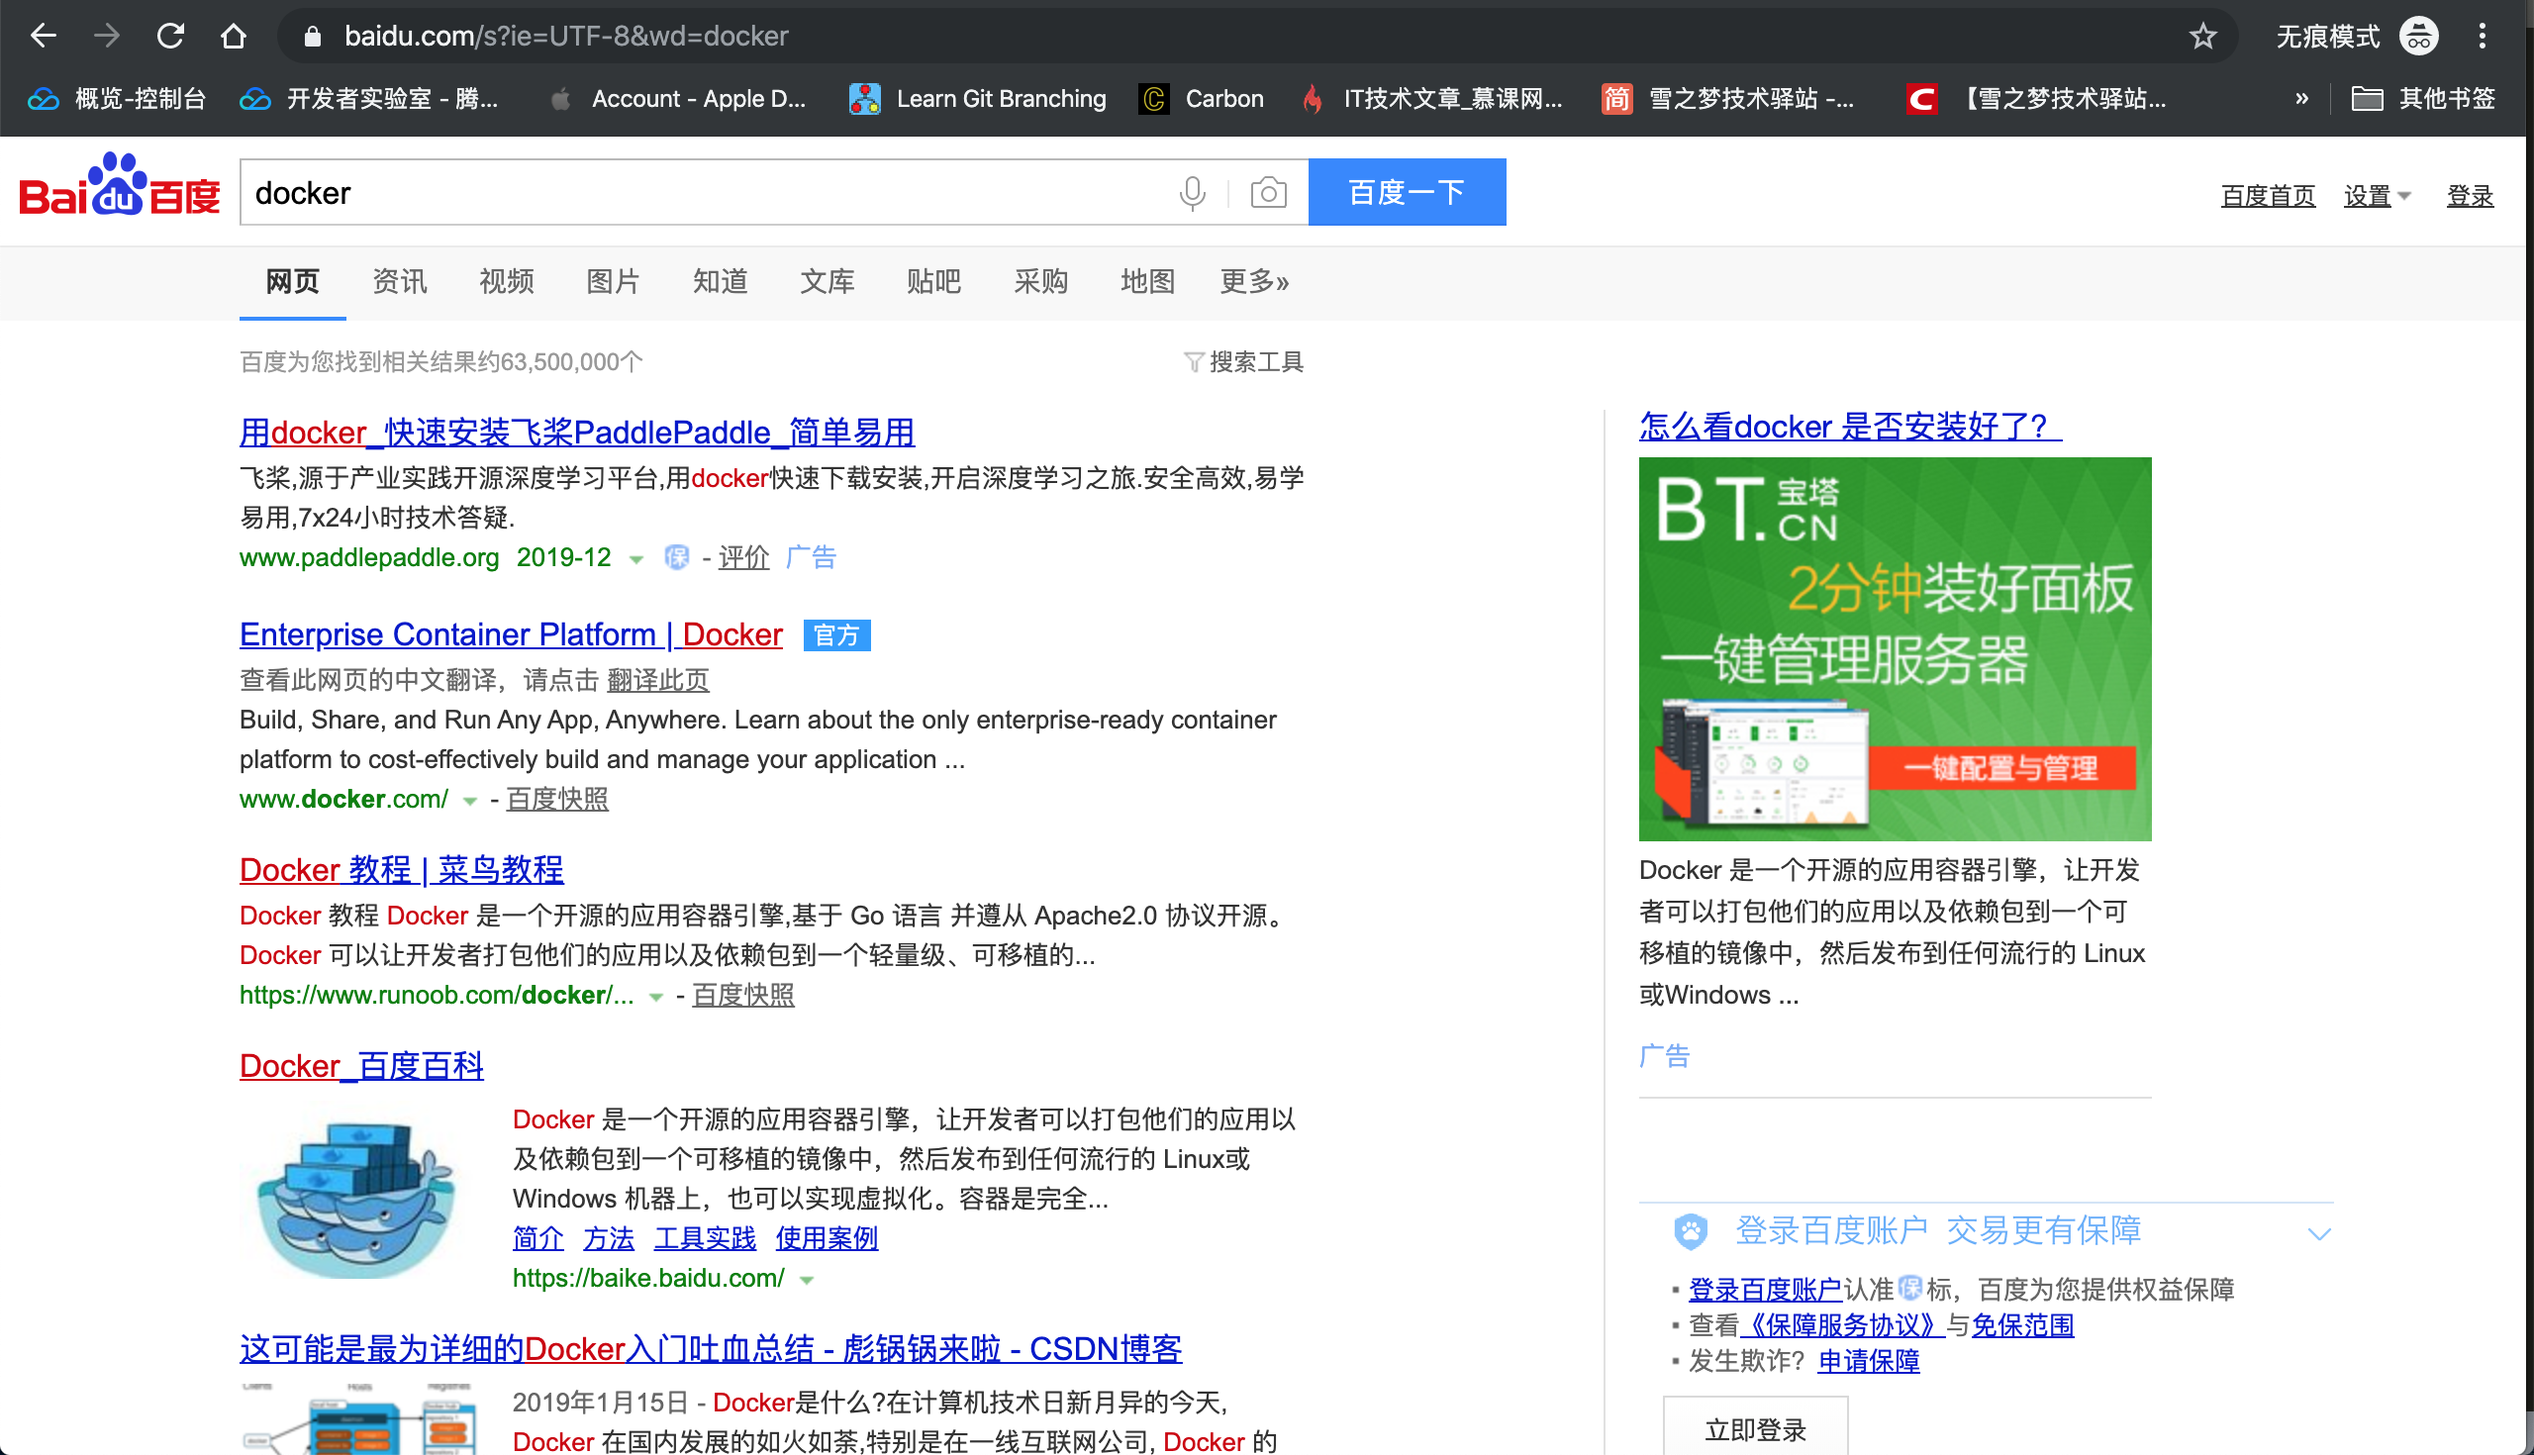
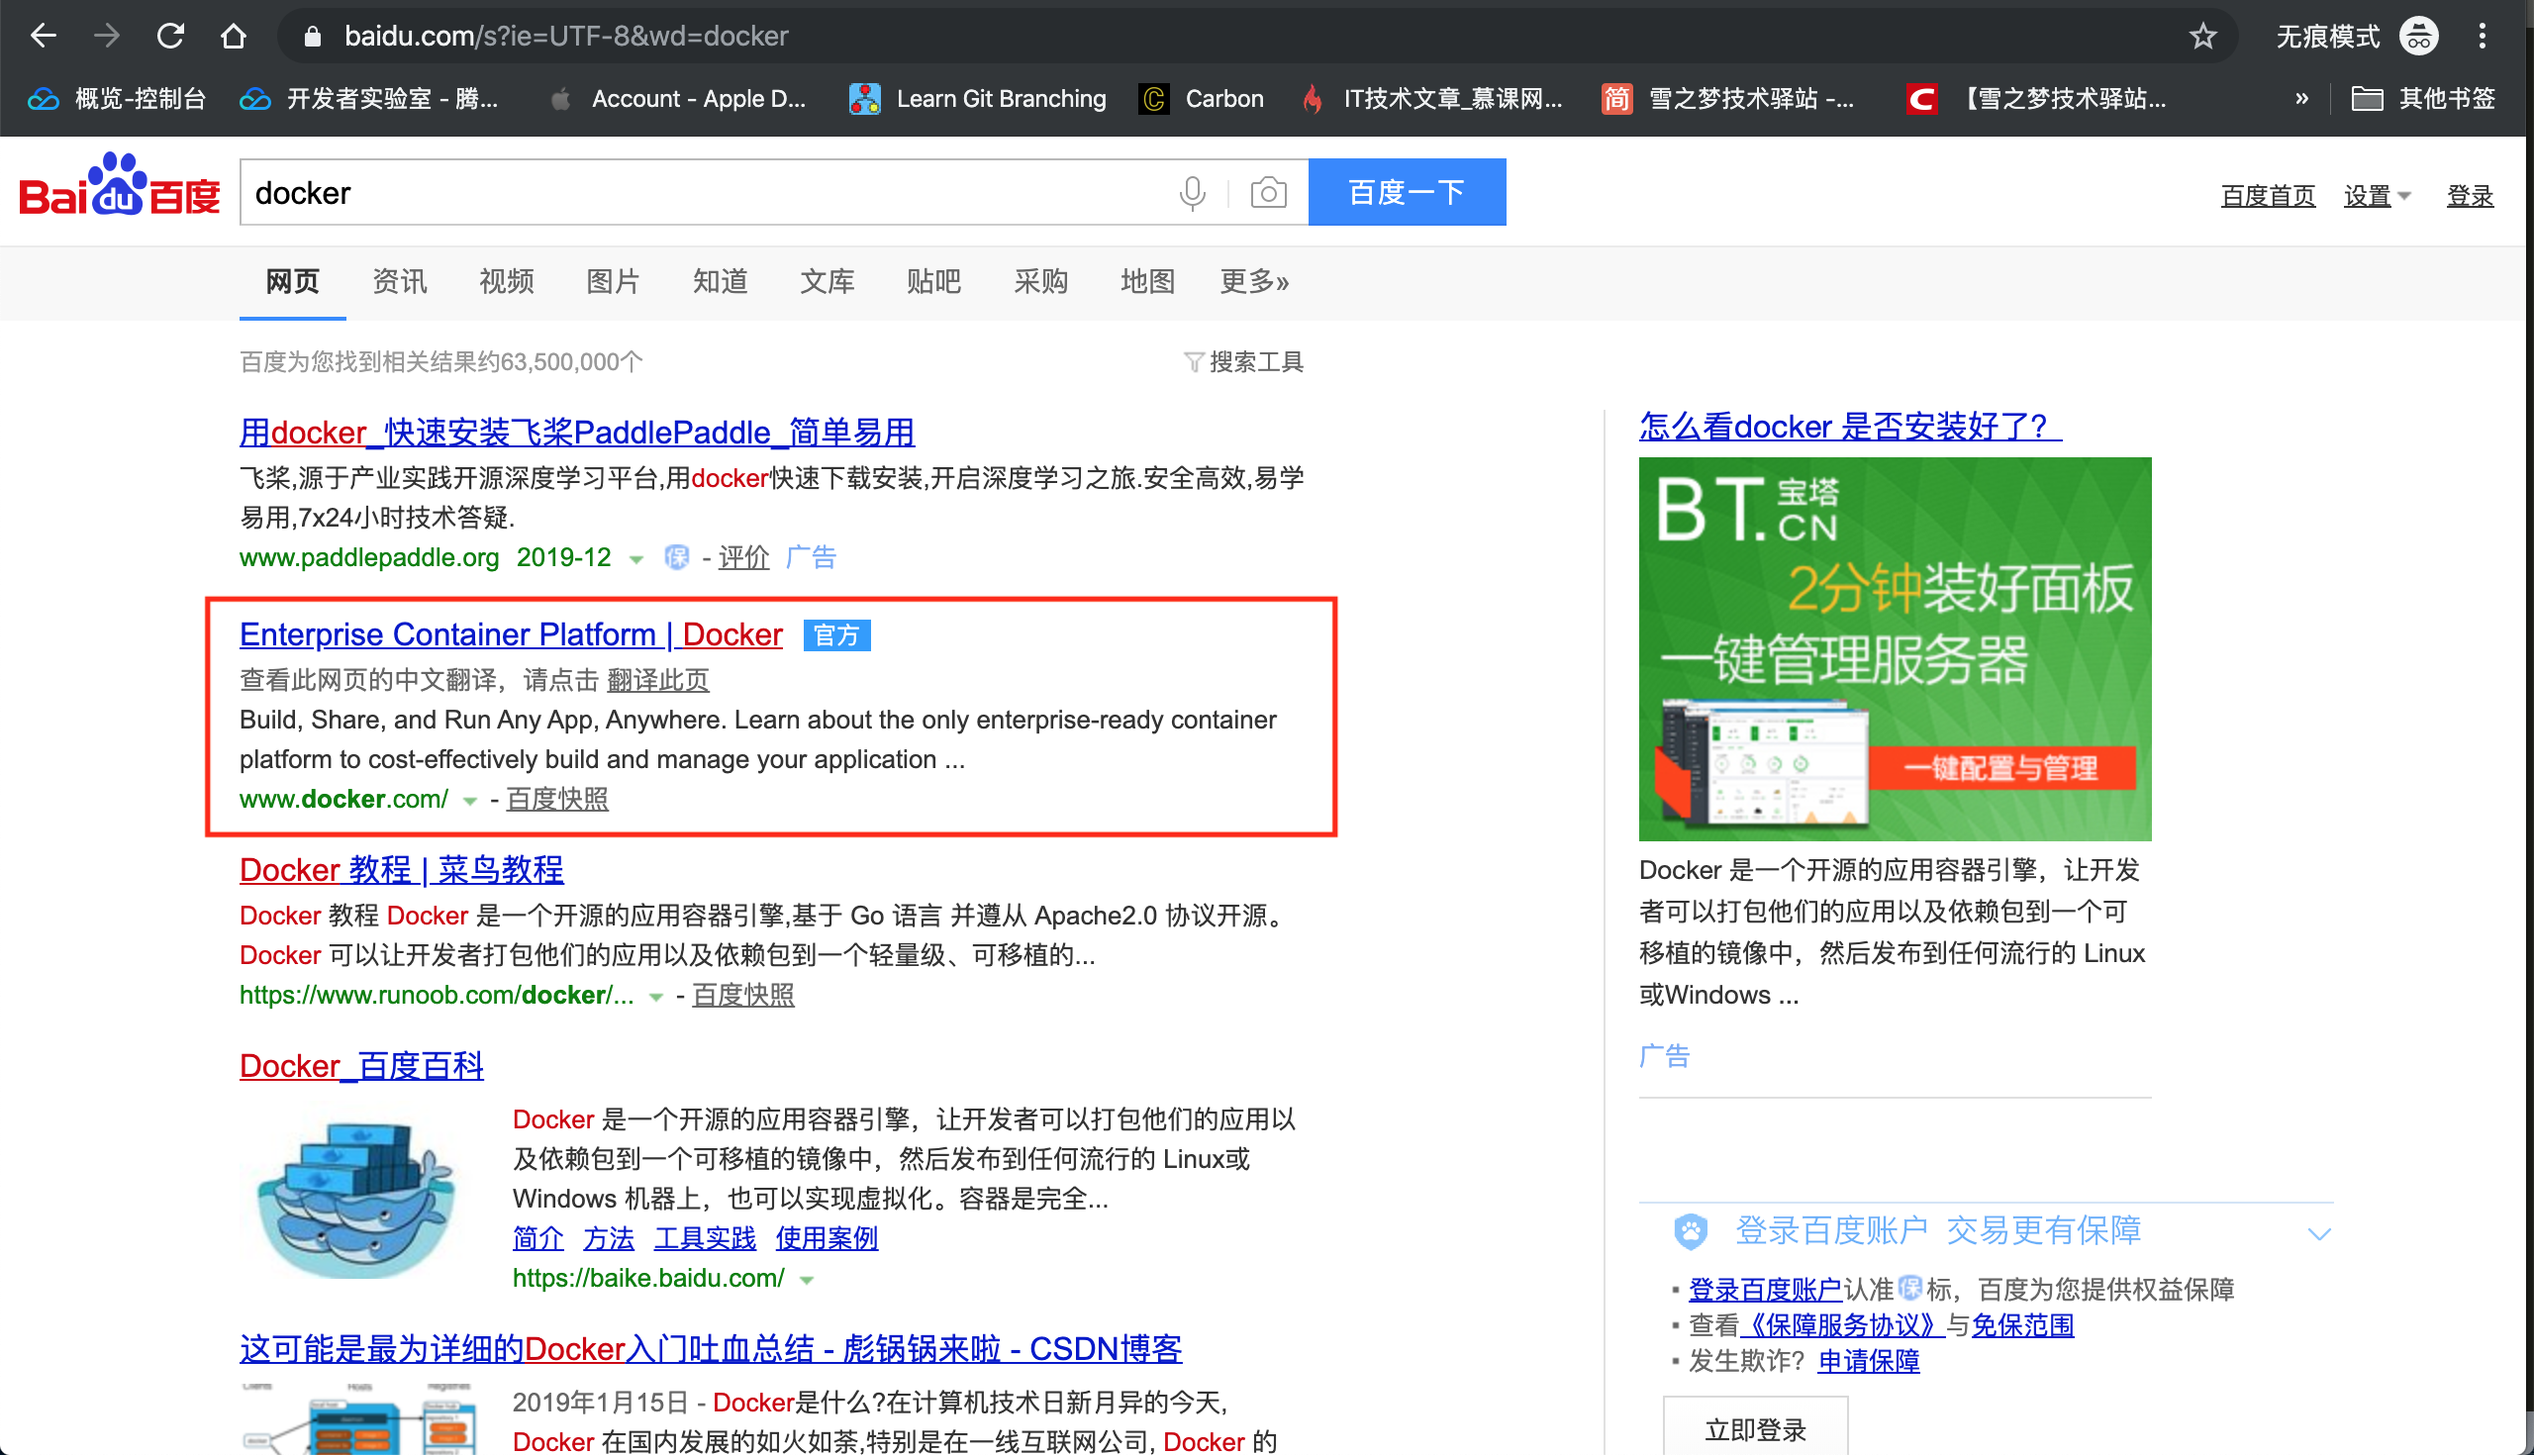
search docker

Changed region(s): [[0.0625, 0.551, 0.5312, 0.5816], [0.0625, 0.398, 0.5312, 0.4286]]

diff --git a/zero2devops/docker-get-started.md b/zero2devops/docker-get-started.md
@@ -2,6 +2,32 @@
 
 传统部署开发项目时往往需要上传项目,安装依赖环境,配置环境变量等等操作才能启动项目,而更加优雅的部署项目应该可以简化上述步骤,这种需求的刺激下 `Docker` 也就应运而生.
 
+`Docker` 不仅可以打包你的项目还可以打包运行环境,只要本地开发正常,打包后上传到服务器也会正常,再也不会喊出 "在我的电脑运行好好的啊!" 这种话了呢!
 
+话不多说,先让我们跟着官方一起学习体验一下 `Docker` 的神奇魅力之处吧!
+
+## 搜一下 docker 找官网
+
+打开任意一款浏览器,在搜索框中输入关键字 `docker` 后***百度一下***,搜索结果右侧带有 `官方` 标识或者下方网址包含 `docker` 的那条记录就是目标网站,比如以下示例的第二条,此方法也适用于探索其他陌生网站.
 
 ![zero2devops-docker-get-started-search-docker.png](./images/zero2devops-docker-get-started-search-docker.png)
+
+只要耐心往下翻翻找到搜索结果右侧的 `官方` 标志,那么这条搜索结果就是官方网站,除了用电脑进行搜索,平时使用最多的就是手机浏览器了.
+
+好奇心的驱使下,分别用 `今日头条,百度,QQ浏览器` 搜索 `docker` 关键字,发现搜索结果很有意思.
+
+![zero2devops-docker-get-started-search-docker-compare.png](./images/zero2devops-docker-get-started-search-docker-compare.png)
+
+- `今日头条` 搜索结果中第一条结果就是官网,最令人满意,看样子今日头条布局搜索后确实不错!
+- `百度` 搜索结果中第一条是广告,接下来是百度翻译,百度百科,第二页结果才出现了官方,还是那个我们熟悉的百度.
+- `QQ浏览器` 最牛逼了,不管是第一页还是第二页,根本就没有官网,无招胜有招,这让我无话可说了.
+
+> 现在打开你的浏览器,搜索 `docker` 关键字看看官方出现在什么位置,欢迎评论区留言告诉我!
+
+## 宾至如归的部署项目
+
+![zero2devops-docker-get-started-docker-welcome.png](./images/zero2devops-docker-get-started-docker-welcome.png)
+
+
+Debug your app, not your environment
+Securely build, share and run any application, anywhere
